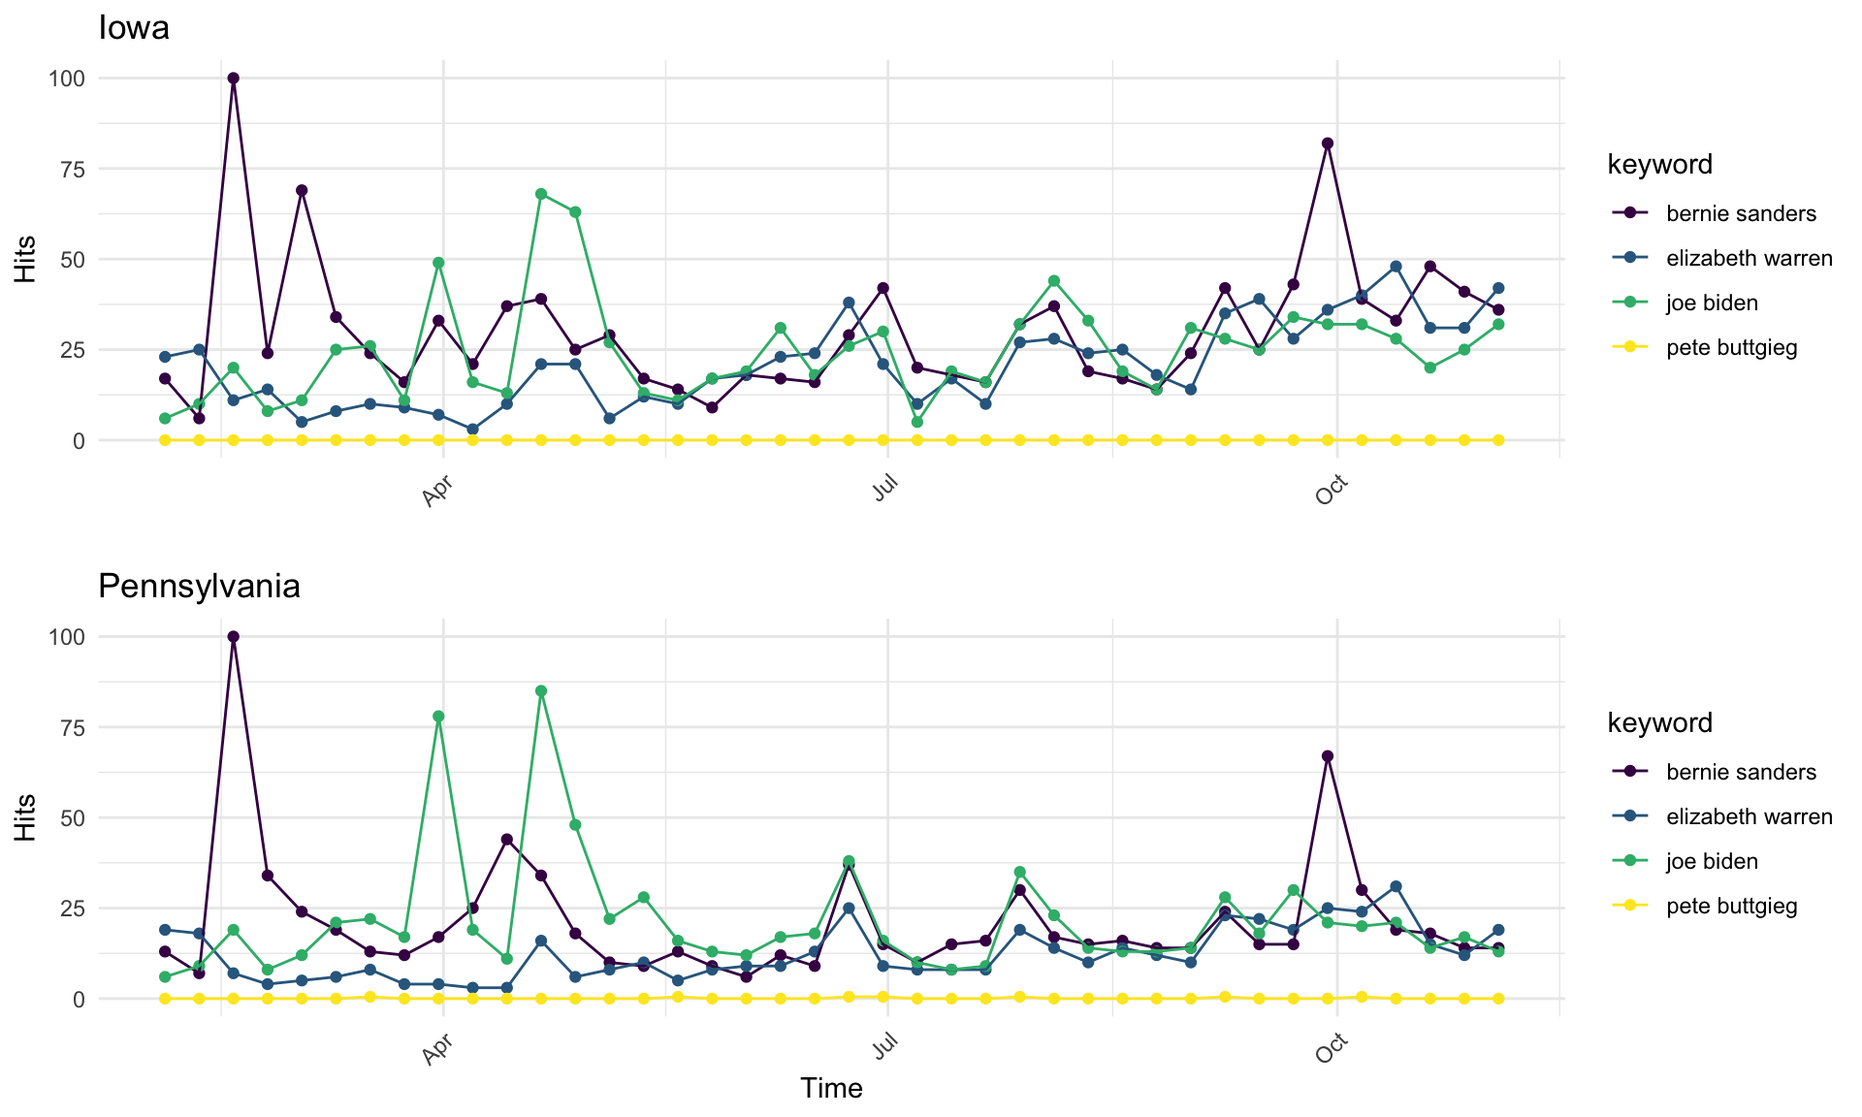
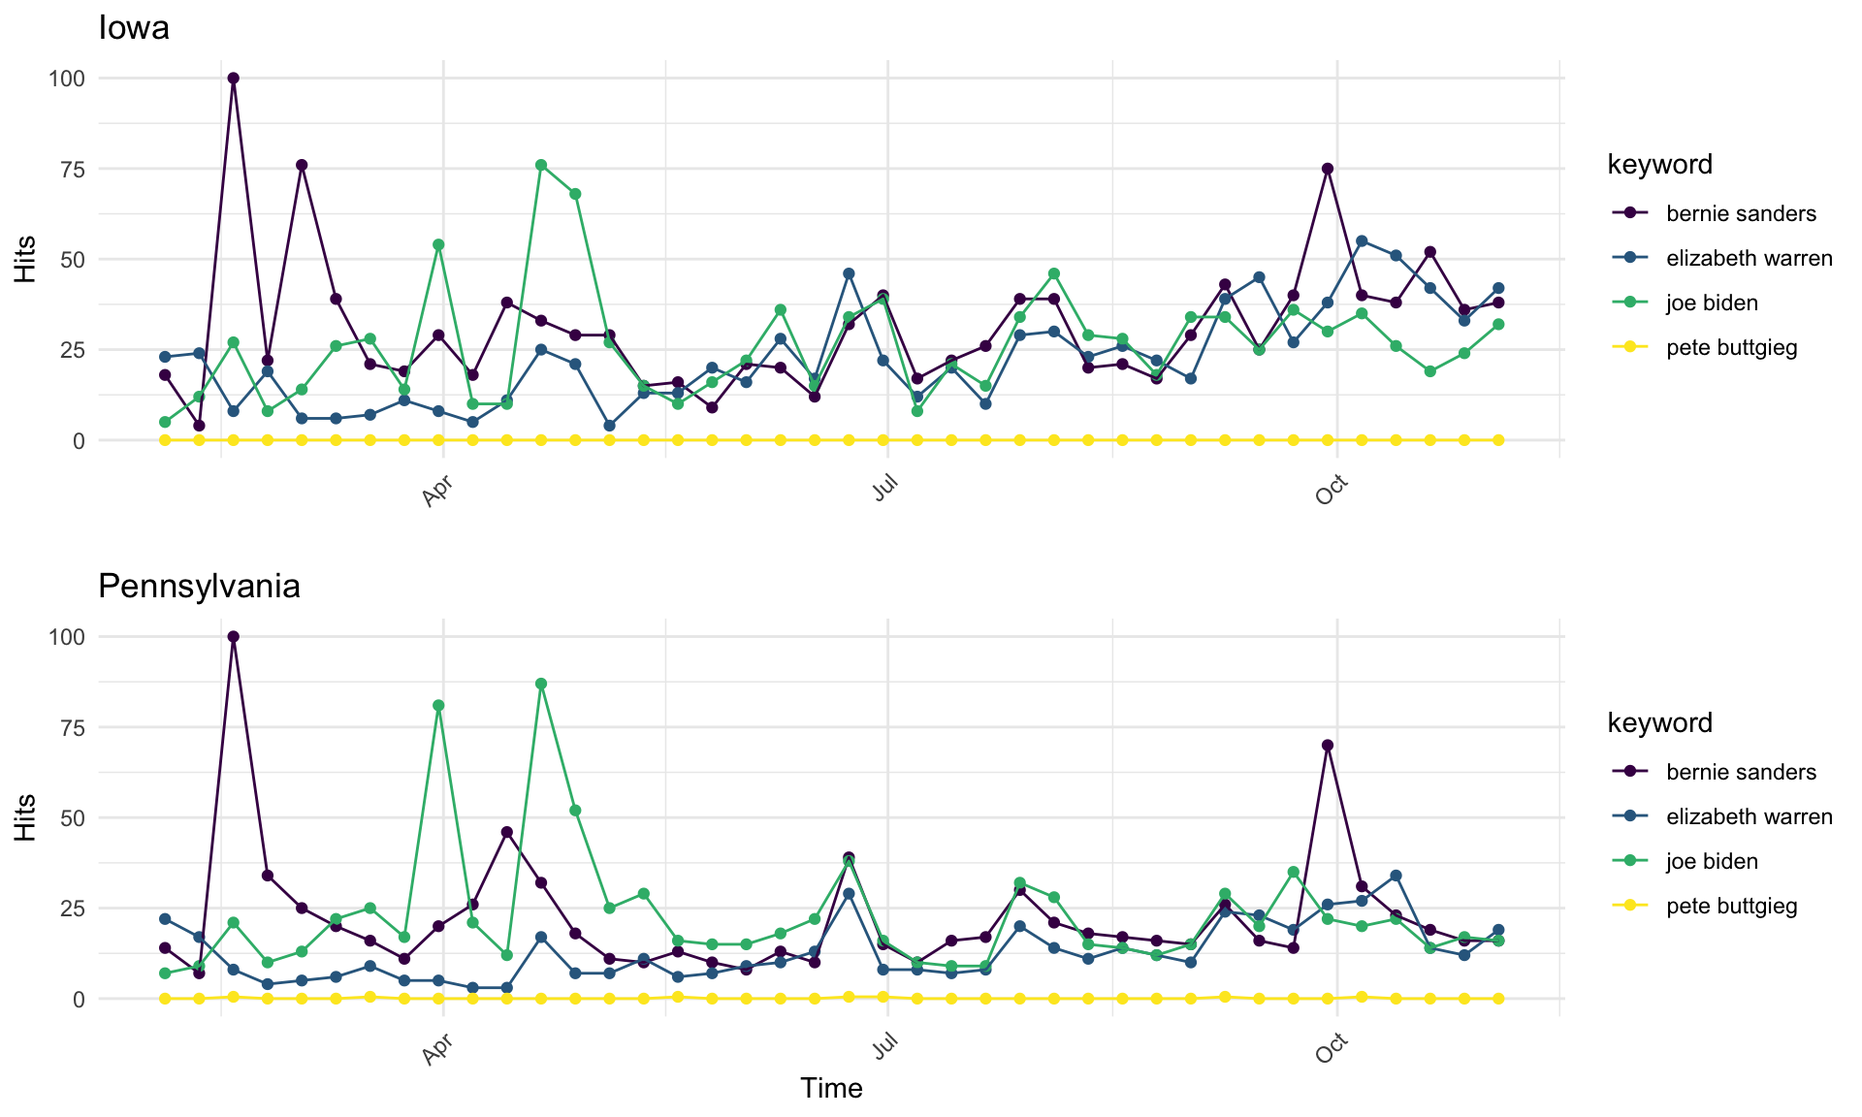
Text changes

diff --git a/Battleground.html b/Battleground.html
@@ -325,13 +325,13 @@ $(document).ready(function () {
 <div id="battlegroundswing-states-in-american-politics" class="section level1">
 <h1>Battleground/Swing States in American Politics</h1>
 <p><img src = "Battleground_files/2020-election-map.png" style = "width:75%"></p>
-<p>While voters from various states exhibit trends of selecting a candidate from a particular party in the presidential elections, there are those select few states where no single candidate may have garnered overwhelming support, resulting in a close race up until election night. The term “Swing State” <a href="https://books.google.com/ngrams/graph?content=battleground+states%2Cswing+states&amp;year_start=1950&amp;year_end=2008&amp;corpus=15&amp;smoothing=3&amp;share=&amp;direct_url=t1%3B%2Cbattleground%20states%3B%2Cc0%3B.t1%3B%2Cswing%20states%3B%2Cc0#t1%3B%2Cbattleground%20states%3B%2Cc0%3B.t1%3B%2Cswing%20states%3B%2Cc0">first emerged</a> in politics around the 1960s but was replaced by “Battleground” in the early 2000s, reflecting the often tumultuous campaigning that will occur between leading candidates. In the above graphic, red and blue colors refer to regular Republican and Democratic strongholds, while grey represent the projected battleground states in 2020. Battleground states may change with election cycles due to demographic shifts in the voter pool or recent changes in other elections like gubernatorial and state legislative, but typically they are characterized by a margin of victory in a previous presidential election of less than 5%. In 2016, eleven states carried this distinction: CO, FL, IA, MI, MN, NV, NH, NC, OH, PA, and VA. In the upcoming 2020 election, key states such as PA, MI, and WI from the rust belt are considered to be <a href="https://electoralvotemap.com">likely Battlegrounds</a>, as well as southern states like FL. In 2016, Trump <a href="https://www.washingtonpost.com/graphics/politics/2016-election/swing-state-margins/">won these three rust belt states</a> with an approxmiate total of 107,000 votes, which was only less than 1% of all votes in the election, but helped him clinch overall victory.</p>
+<p>While voters from various states exhibit trends of selecting a candidate from a particular party in the presidential elections, there are those select few states where no single candidate may have garnered overwhelming support, resulting in a close race up until election night. The term “Swing State” <a href="https://books.google.com/ngrams/graph?content=battleground+states%2Cswing+states&amp;year_start=1950&amp;year_end=2008&amp;corpus=15&amp;smoothing=3&amp;share=&amp;direct_url=t1%3B%2Cbattleground%20states%3B%2Cc0%3B.t1%3B%2Cswing%20states%3B%2Cc0#t1%3B%2Cbattleground%20states%3B%2Cc0%3B.t1%3B%2Cswing%20states%3B%2Cc0">first emerged</a> in politics around the 1960s but was replaced by “Battleground” in the early 2000s, reflecting the often tumultuous campaigning that will occur between leading candidates. In the above graphic, red and blue colors refer to regular Republican and Democratic strongholds, while grey represents the projected battleground states in 2020. Battleground states may change with election cycles due to demographic shifts in the voter pool or recent changes in other elections like gubernatorial and state legislative, but typically they are characterized by a margin of victory in a previous presidential election of less than 5%. In 2016, eleven states carried this distinction: CO, FL, IA, MI, MN, NV, NH, NC, OH, PA, and VA. In the upcoming 2020 election, key states such as PA, MI, and WI from the rust belt are considered to be <a href="https://electoralvotemap.com">likely Battlegrounds</a>, as well as southern states like FL. In 2016, Trump <a href="https://www.washingtonpost.com/graphics/politics/2016-election/swing-state-margins/">won these three rust belt states</a> with an approxmiate total of 107,000 votes, which was only less than 1% of all votes in the election, but helped him clinch overall victory.</p>
 <hr />
 </div>
 <div id="pennsylvania-and-iowa" class="section level1">
 <h1>Pennsylvania and Iowa</h1>
 <p>Pennsylvania has experienced <a href="https://www.dailykos.com/stories/2017/11/9/1714253/-Pennsylvania-Democrats-flip-offices-for-first-time-since-1799-and-GOP-congressmen-could-be-next">recent shifts in local level results</a>, as three regularly strong Republican counties all flipped blue. In Chester County, it was the first time Democrats won several key offices since 1799, and similarly in Bucks County, it was the first time Democrats won any countywide office except for county commissioner in 30 years. Pennsylvania’s 2020 primary will be held Tuesday, April 28th.</p>
-<p>Iowa is often considered to be a state of note, not only for its frequent battleground status but also because it hosts the <a href="https://www.uspresidentialelectionnews.com/2020-presidential-primary-schedule-calendar/">first caucus</a> during a presidential election year, which will happen Monday, February 3rd. For the last 20 years, an Iowa winner (top 4 for their party) has gone on to <a href="https://www.thewrap.com/how-good-are-the-iowa-caucuses-at-picking-presidential-nominees-pretty-good/">win the presidency</a>. <a href="https://www.usatoday.com/story/news/politics/elections/2019/10/21/iowa-caucuses-pete-buttigieg-elizabeth-warren-joe-biden-top-poll/4025797002/">Recent poll results</a> in October have shown a surprising jump by South Bend major Pete Buttigieg in Iowa, who has propelled himself into the top 3 leading candidates with 13%, following closely behind frontrunners Senator Elizabeth Warren at 17% and former Vice President Joe Biden at 18%.</p>
+<p>Iowa is often considered to be a state of note, not only for its frequent battleground status but also because it hosts the <a href="https://www.uspresidentialelectionnews.com/2020-presidential-primary-schedule-calendar/">first caucus</a> during a presidential election year, which will happen Monday, February 3rd. For the last 20 years, an Iowa winner (top 4 for their party) has gone on to <a href="https://www.thewrap.com/how-good-are-the-iowa-caucuses-at-picking-presidential-nominees-pretty-good/">win the presidency</a>. <a href="https://www.usatoday.com/story/news/politics/elections/2019/10/21/iowa-caucuses-pete-buttigieg-elizabeth-warren-joe-biden-top-poll/4025797002/">Recent poll results</a> in October have shown a surprising jump by South Bend mayor Pete Buttigieg in Iowa, who has propelled himself into the top 3 leading candidates with 13%, following closely behind frontrunners Senator Elizabeth Warren at 17% and former Vice President Joe Biden at 18%.</p>
 <hr />
 </div>
 <div id="polling-in-important-2020-election-states" class="section level1">
@@ -340,22 +340,22 @@ $(document).ready(function () {
 <hr />
 <div id="iowa" class="section level3">
 <h3>Iowa</h3>
-<div id="htmlwidget-ec5860716b0a87451811" style="width:90%;height:576px;" class="plotly html-widget"></div>
-<script type="application/json" data-for="htmlwidget-ec5860716b0a87451811">{"x":{"visdat":{"45106a125e9a":["function () ","plotlyVisDat"]},"cur_data":"45106a125e9a","attrs":{"45106a125e9a":{"y":{},"color":{},"colors":"Set3","alpha_stroke":1,"sizes":[10,100],"spans":[1,20],"type":"box"}},"layout":{"margin":{"b":40,"l":60,"t":25,"r":10},"yaxis":{"domain":[0,1],"automargin":true,"title":"pct"},"xaxis":{"domain":[0,1],"automargin":true},"hovermode":"closest","showlegend":true},"source":"A","config":{"showSendToCloud":false},"data":[{"fillcolor":"rgba(190,138,190,0.5)","y":[14,16.6,12,7,7.2,14],"type":"box","name":"Buttigieg","marker":{"color":"rgba(190,138,190,1)","line":{"color":"rgba(190,138,190,1)"}},"line":{"color":"rgba(190,138,190,1)"},"xaxis":"x","yaxis":"y","frame":null},{"fillcolor":"rgba(217,235,180,0.5)","y":[28,16.8,22,24.6,24,18,20,12,9],"type":"box","name":"Warren","marker":{"color":"rgba(217,235,180,1)","line":{"color":"rgba(217,235,180,1)"}},"line":{"color":"rgba(217,235,180,1)"},"xaxis":"x","yaxis":"y","frame":null},{"fillcolor":"rgba(225,236,167,0.5)","y":[12.5,21,18,24.1,10.38],"type":"box","name":"Sanders","marker":{"color":"rgba(225,236,167,1)","line":{"color":"rgba(225,236,167,1)"}},"line":{"color":"rgba(225,236,167,1)"},"xaxis":"x","yaxis":"y","frame":null},{"fillcolor":"rgba(241,236,140,0.5)","y":[12,17.6,22,25,29,17,24,19,27,25.3,29,32,30],"type":"box","name":"Biden","marker":{"color":"rgba(241,236,140,1)","line":{"color":"rgba(241,236,140,1)"}},"line":{"color":"rgba(241,236,140,1)"},"xaxis":"x","yaxis":"y","frame":null}],"highlight":{"on":"plotly_click","persistent":false,"dynamic":false,"selectize":false,"opacityDim":0.2,"selected":{"opacity":1},"debounce":0},"shinyEvents":["plotly_hover","plotly_click","plotly_selected","plotly_relayout","plotly_brushed","plotly_brushing","plotly_clickannotation","plotly_doubleclick","plotly_deselect","plotly_afterplot"],"base_url":"https://plot.ly"},"evals":[],"jsHooks":[]}</script>
-<p>Median polling results for leading candidates show Biden still ahead of the pack with 25 percentage points but also a large range of 20 points between lowest and highest predictions. Warren follows with a similarly wide range of 19 points. Just a 2 percentage point difference between her and Sanders may signify a tight race for second place. Buttigieg continues to lag behind these three but remains in double digits with 13 points, all the while exhibiting the lowest range in polls at only 9.6 between his highest and lowest predictions.</p>
+<div id="htmlwidget-491d48864274479047e5" style="width:90%;height:576px;" class="plotly html-widget"></div>
+<script type="application/json" data-for="htmlwidget-491d48864274479047e5">{"x":{"visdat":{"466b3e881d3":["function () ","plotlyVisDat"]},"cur_data":"466b3e881d3","attrs":{"466b3e881d3":{"y":{},"color":{},"colors":"Set3","alpha_stroke":1,"sizes":[10,100],"spans":[1,20],"type":"box"}},"layout":{"margin":{"b":40,"l":60,"t":25,"r":10},"yaxis":{"domain":[0,1],"automargin":true,"title":"pct"},"xaxis":{"domain":[0,1],"automargin":true},"hovermode":"closest","showlegend":true},"source":"A","config":{"showSendToCloud":false},"data":[{"fillcolor":"rgba(190,138,190,0.5)","y":[14,16.6,12,7,7.2,14],"type":"box","name":"Buttigieg","marker":{"color":"rgba(190,138,190,1)","line":{"color":"rgba(190,138,190,1)"}},"line":{"color":"rgba(190,138,190,1)"},"xaxis":"x","yaxis":"y","frame":null},{"fillcolor":"rgba(217,235,180,0.5)","y":[28,16.8,22,24.6,24,18,20,12,9],"type":"box","name":"Warren","marker":{"color":"rgba(217,235,180,1)","line":{"color":"rgba(217,235,180,1)"}},"line":{"color":"rgba(217,235,180,1)"},"xaxis":"x","yaxis":"y","frame":null},{"fillcolor":"rgba(225,236,167,0.5)","y":[12.5,21,18,24.1,10.38],"type":"box","name":"Sanders","marker":{"color":"rgba(225,236,167,1)","line":{"color":"rgba(225,236,167,1)"}},"line":{"color":"rgba(225,236,167,1)"},"xaxis":"x","yaxis":"y","frame":null},{"fillcolor":"rgba(241,236,140,0.5)","y":[12,17.6,22,25,29,17,24,19,27,25.3,29,32,30],"type":"box","name":"Biden","marker":{"color":"rgba(241,236,140,1)","line":{"color":"rgba(241,236,140,1)"}},"line":{"color":"rgba(241,236,140,1)"},"xaxis":"x","yaxis":"y","frame":null}],"highlight":{"on":"plotly_click","persistent":false,"dynamic":false,"selectize":false,"opacityDim":0.2,"selected":{"opacity":1},"debounce":0},"shinyEvents":["plotly_hover","plotly_click","plotly_selected","plotly_relayout","plotly_brushed","plotly_brushing","plotly_clickannotation","plotly_doubleclick","plotly_deselect","plotly_afterplot"],"base_url":"https://plot.ly"},"evals":[],"jsHooks":[]}</script>
+<p>Median polling results from 31 polls for leading candidates show Biden still ahead of the pack with 25 percentage points but also a large range of 20 points between lowest and highest predictions. Warren follows with a similarly wide range of 19 points. Just a 2 percentage point difference between her and Sanders may signify a tight race for second place. Buttigieg continues to lag behind these three but remains in double digits with 13 points, all the while exhibiting the lowest range in polls at only 9.6 between his highest and lowest predictions.</p>
 </div>
 <div id="pennsylvania" class="section level3">
 <h3>Pennsylvania</h3>
-<div id="htmlwidget-1a286ab308afb723482d" style="width:90%;height:576px;" class="plotly html-widget"></div>
-<script type="application/json" data-for="htmlwidget-1a286ab308afb723482d">{"x":{"visdat":{"45103af11590":["function () ","plotlyVisDat"]},"cur_data":"45103af11590","attrs":{"45103af11590":{"y":{},"color":{},"colors":"Set3","alpha_stroke":1,"sizes":[10,100],"spans":[1,20],"type":"box"}},"layout":{"margin":{"b":40,"l":60,"t":25,"r":10},"yaxis":{"domain":[0,1],"automargin":true,"title":"pct"},"xaxis":{"domain":[0,1],"automargin":true},"hovermode":"closest","showlegend":true},"source":"A","config":{"showSendToCloud":false},"data":[{"fillcolor":"rgba(190,138,190,0.5)","y":[8.5],"type":"box","name":"Buttigieg","marker":{"color":"rgba(190,138,190,1)","line":{"color":"rgba(190,138,190,1)"}},"line":{"color":"rgba(190,138,190,1)"},"xaxis":"x","yaxis":"y","frame":null},{"fillcolor":"rgba(217,235,180,0.5)","y":[9,8,8],"type":"box","name":"Warren","marker":{"color":"rgba(217,235,180,1)","line":{"color":"rgba(217,235,180,1)"}},"line":{"color":"rgba(217,235,180,1)"},"xaxis":"x","yaxis":"y","frame":null},{"fillcolor":"rgba(225,236,167,0.5)","y":[6,13],"type":"box","name":"Sanders","marker":{"color":"rgba(225,236,167,1)","line":{"color":"rgba(225,236,167,1)"}},"line":{"color":"rgba(225,236,167,1)"},"xaxis":"x","yaxis":"y","frame":null},{"fillcolor":"rgba(241,236,140,0.5)","y":[46],"type":"box","name":"Biden","marker":{"color":"rgba(241,236,140,1)","line":{"color":"rgba(241,236,140,1)"}},"line":{"color":"rgba(241,236,140,1)"},"xaxis":"x","yaxis":"y","frame":null}],"highlight":{"on":"plotly_click","persistent":false,"dynamic":false,"selectize":false,"opacityDim":0.2,"selected":{"opacity":1},"debounce":0},"shinyEvents":["plotly_hover","plotly_click","plotly_selected","plotly_relayout","plotly_brushed","plotly_brushing","plotly_clickannotation","plotly_doubleclick","plotly_deselect","plotly_afterplot"],"base_url":"https://plot.ly"},"evals":[],"jsHooks":[]}</script>
-<p>Pennsylvania has one of the last primaries (April 28th), which means polling data may not accurately reflect the ultimate outcome of voter choices, especially when considering that outcomes in early states may change the tides for specific individuals. Some candidates are therefore showing a lack of variability in current polling results, including Biden and Buttigieg, which may signify that voters are more consistent in percieving them to maintain their current positions of first and fourth respectively, while not being as certain how Sanders and Warren will finish. However, the overall field is exhibiting a similar trend to Iowa, as Biden leads the way a median of 30 percentage points among sampled polls. He is followed by Sanders and Warren, who again are polling quite close together at a median of 9.5 and 8 percentage points, respectively. Buttigieg does not trail by much any longer, as he is showing a median of 6.3 percentage points. This means that the 2nd through 4th place candidates are all within 3 points of each other.</p>
+<div id="htmlwidget-abf0336c4437713070d1" style="width:90%;height:576px;" class="plotly html-widget"></div>
+<script type="application/json" data-for="htmlwidget-abf0336c4437713070d1">{"x":{"visdat":{"466b1857cbba":["function () ","plotlyVisDat"]},"cur_data":"466b1857cbba","attrs":{"466b1857cbba":{"y":{},"color":{},"colors":"Set3","alpha_stroke":1,"sizes":[10,100],"spans":[1,20],"type":"box"}},"layout":{"margin":{"b":40,"l":60,"t":25,"r":10},"yaxis":{"domain":[0,1],"automargin":true,"title":"pct"},"xaxis":{"domain":[0,1],"automargin":true},"hovermode":"closest","showlegend":true},"source":"A","config":{"showSendToCloud":false},"data":[{"fillcolor":"rgba(190,138,190,0.5)","y":[8.5],"type":"box","name":"Buttigieg","marker":{"color":"rgba(190,138,190,1)","line":{"color":"rgba(190,138,190,1)"}},"line":{"color":"rgba(190,138,190,1)"},"xaxis":"x","yaxis":"y","frame":null},{"fillcolor":"rgba(217,235,180,0.5)","y":[9,8,8],"type":"box","name":"Warren","marker":{"color":"rgba(217,235,180,1)","line":{"color":"rgba(217,235,180,1)"}},"line":{"color":"rgba(217,235,180,1)"},"xaxis":"x","yaxis":"y","frame":null},{"fillcolor":"rgba(225,236,167,0.5)","y":[6,13],"type":"box","name":"Sanders","marker":{"color":"rgba(225,236,167,1)","line":{"color":"rgba(225,236,167,1)"}},"line":{"color":"rgba(225,236,167,1)"},"xaxis":"x","yaxis":"y","frame":null},{"fillcolor":"rgba(241,236,140,0.5)","y":[46],"type":"box","name":"Biden","marker":{"color":"rgba(241,236,140,1)","line":{"color":"rgba(241,236,140,1)"}},"line":{"color":"rgba(241,236,140,1)"},"xaxis":"x","yaxis":"y","frame":null}],"highlight":{"on":"plotly_click","persistent":false,"dynamic":false,"selectize":false,"opacityDim":0.2,"selected":{"opacity":1},"debounce":0},"shinyEvents":["plotly_hover","plotly_click","plotly_selected","plotly_relayout","plotly_brushed","plotly_brushing","plotly_clickannotation","plotly_doubleclick","plotly_deselect","plotly_afterplot"],"base_url":"https://plot.ly"},"evals":[],"jsHooks":[]}</script>
+<p>The smaller sample size of polls (7) may make it difficult to accurately represent current candidate polling status, and this fewer number of polls could be attributed to Pennsylvania possessing a later primary (April 28th), which means it hasn’t garnered as much attention for predictors. However, the overall field is exhibiting a similar trend to Iowa, as Biden leads the way with a median of 30 percentage points among sampled polls. He is followed by Sanders and Warren, who again are polling quite close together at a median of 9.5 and 8 percentage points, respectively. Buttigieg does not trail by much any longer, as he is showing a median of 6.3 percentage points. This means that the 2nd through 4th place candidates are all within 3 points of each other.</p>
 <hr />
 </div>
 </div>
 <div id="google-trends-by-state" class="section level1">
 <h1>Google Trends By State</h1>
 <p><img src="Battleground_files/figure-html/unnamed-chunk-8-1.png" width="90%" /></p>
-<p>Between Iowa and Pennsylvania, there are consistent spikes in search queries for the three leading candidates: Biden, Sanders, and Warren. Not only does each individual’s proportion of searches spike at similar time points in each state, but spikes for all three candidates seem to coincide, suggesting that voters are engaging in searches for numerous candidates at similar times. Sanders experienced significant popularity in search results in early spring and in October, the latter of which likely around the time of the fourth debate. In spring in both states, he reached a search proportion of 100, which means he was the <a href="https://medium.com/google-news-lab/what-is-google-trends-data-and-what-does-it-mean-b48f07342ee8">most searched topic compared to all others on Google</a> in these regions at that point in time. Biden experienced his greatest spikes in voter search results later in the spring compared to Sanders, potentially due to debate 1 proceedings. Warren did not exhibit any significant spikes in search queries but has seen a steady increase in searches over time, at least in Iowa. Both Biden and Sanders have also expereinced steady overall increases in Iowa voter search queries over time, while in Pennsylvania they’ve ultimately leveled off. All three saw search increases around the third debate in July. Buttigieg however has not been prominent in search queries at any point over the course of the year in either state, despite his recent positive polling results in Iowa. Overall for the top 3 candidates, changes in search results in both states likely have reflected major events in the democratic race thus far, but search queries towards the end of this year do not reflect any clear preference in candidates.</p>
+<p>Between Iowa and Pennsylvania, there are consistent spikes in search queries for the three leading candidates: Biden, Sanders, and Warren. Not only does each individual’s proportion of searches spike at similar time points in each state, but spikes for all three candidates seem to coincide, suggesting that voters are engaging in searches for numerous candidates at similar times. Sanders experienced significant popularity in search results in early spring and in October, likely around the time of the fourth debate. In spring in both states, he reached a search proportion of 100, which means he was the <a href="https://medium.com/google-news-lab/what-is-google-trends-data-and-what-does-it-mean-b48f07342ee8">most searched topic compared to all others on Google</a> in these regions at that point in time. Biden experienced his greatest spikes in voter search results later in the spring compared to Sanders, potentially due to debate 1 proceedings. Warren did not exhibit any significant spikes in search queries but has seen a steady increase in searches over time, at least in Iowa. Both Biden and Sanders have also expereinced steady overall increases in Iowa voter search queries over time, while in Pennsylvania they’ve ultimately leveled off. All three saw search increases around the third debate in July. Buttigieg however has not been prominent in search queries at any point over the course of the year in either state, despite his recent positive polling results in Iowa. Overall for the top 3 candidates, changes in search results in both states likely have reflected major events in the democratic race thus far, but search queries towards the end of this year do not reflect any clear preference in candidates.</p>
 </div>
 
 
